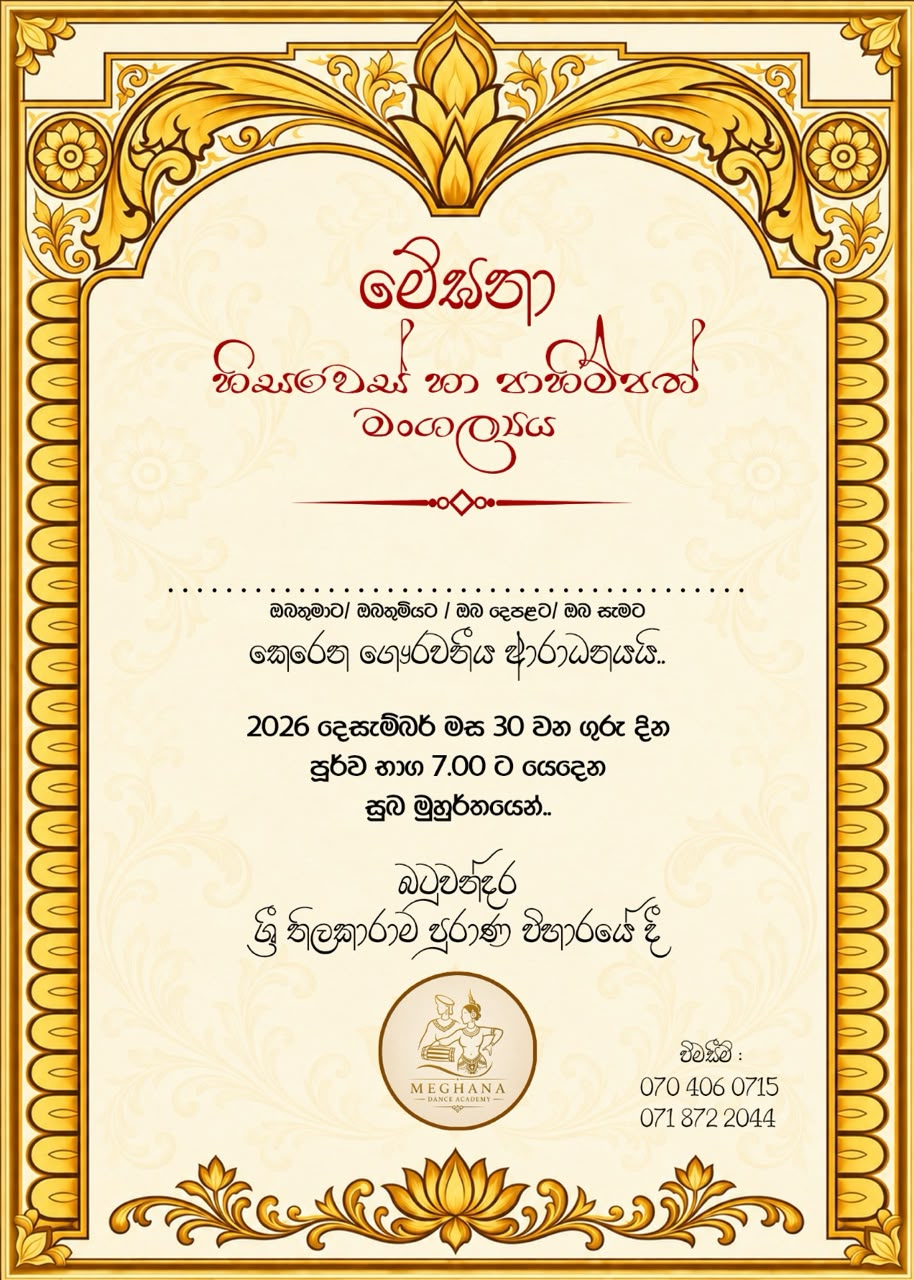
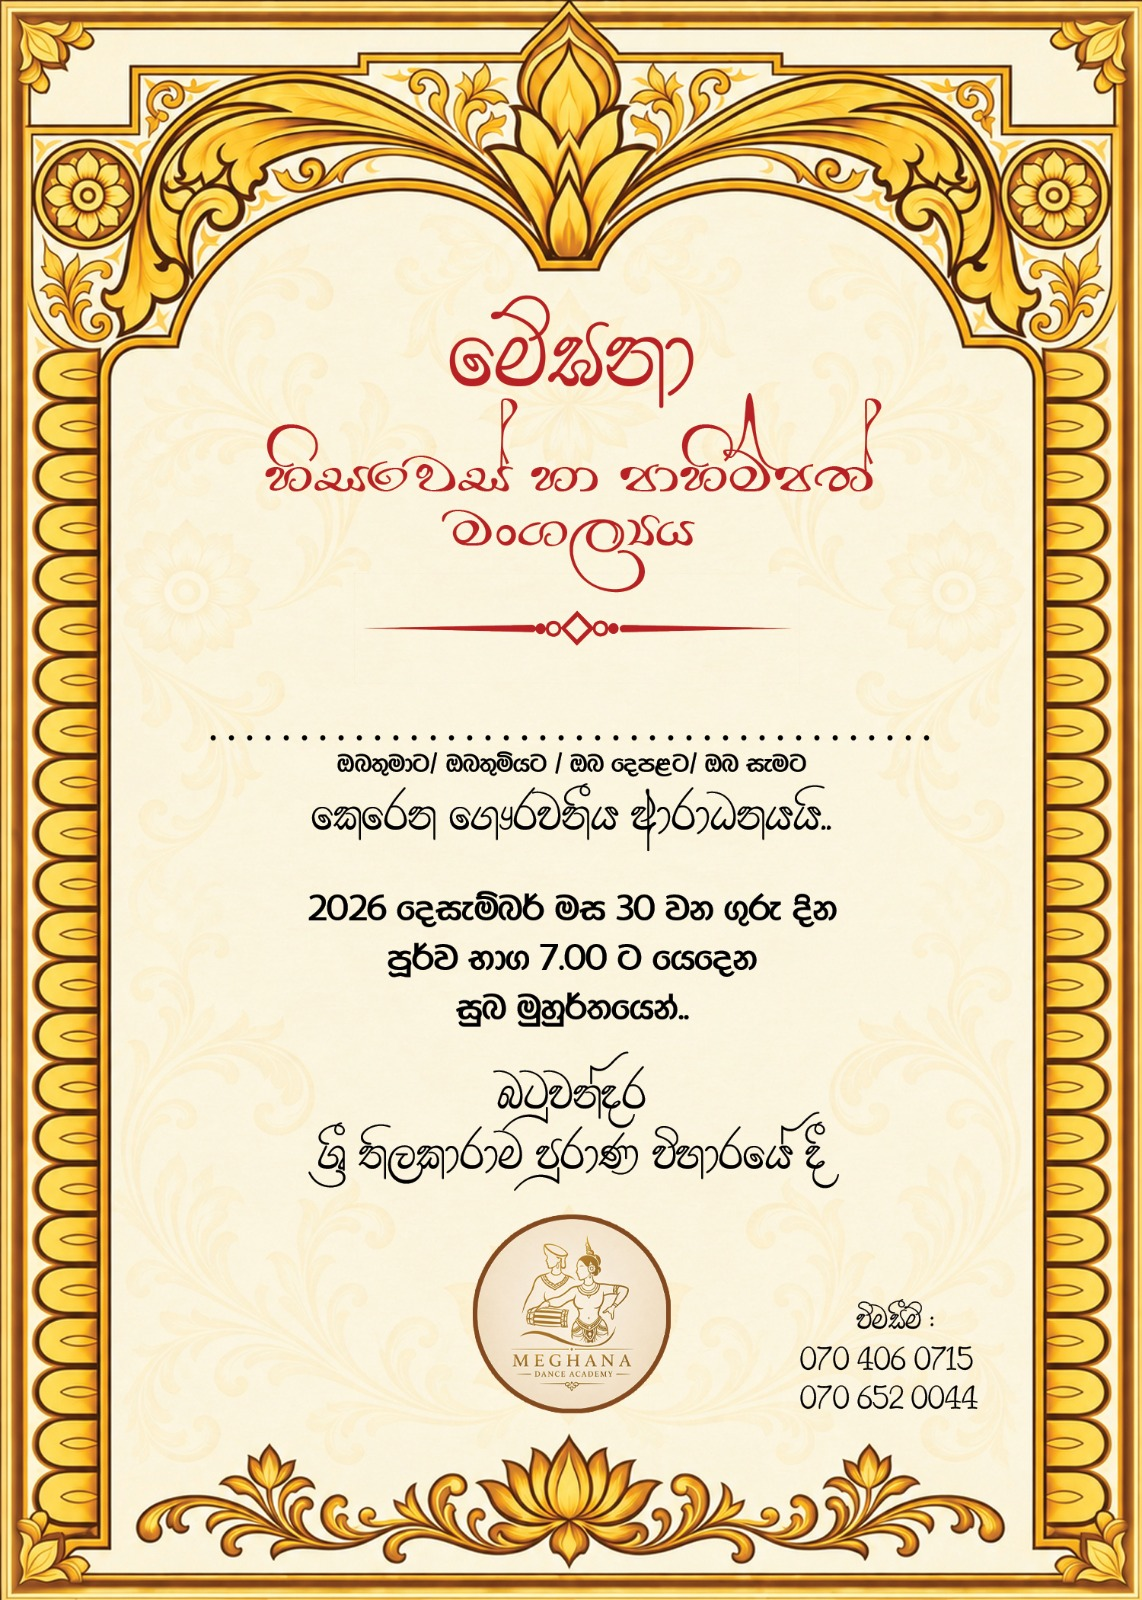
Update invitation details and improve Sinhala translations for clarity

diff --git a/ves-mangalya-invitation/components/OnePageSections.js b/ves-mangalya-invitation/components/OnePageSections.js
@@ -14,7 +14,7 @@ const STUDENTS = [
   { name: 'දුලීෂී නිම්තරා',photo: '/student8.jpeg' }
 ];
 const AGENDA = [
-  { time: 'පෙ.ව.5.00', title: 'හිස වෙස් හා පාහිම්පත් පැළදවීම'},
+  { time: 'පෙ.ව.5.00', title: 'හිසවෙස් හා පාහිම්පත් පැළදවීම'},
   { time: 'පෙ.ව.6.45', title: 'රංග භූමියට ප්රවිශ්ට වීම හා මගුල් බෙර වාදනය'},
   { time: 'පෙ.ව.7.00', title: 'යාතිකාව'},
   { time: 'පෙ.ව.7.30', title: 'ඡායාරූප ගැනීම'},
@@ -30,25 +30,24 @@ const AGENDA = [
   { title: 'තේ පැන් සංග්රහය'}
 ];
 const PHOTOS = [
-  '/gallery1.jpg',
-  '/gallery2.jpg',
-  '/gallery3.jpg',
-  '/gallery4.jpg',
-  '/gallery5.jpg',
   '/gallery6.jpg',
-  '/gallery7.jpg',
+  '/gallery1.jpg',
   '/gallery8.jpg',
-  '/gallery9.jpg',
+  '/gallery3.jpg',
   '/gallery10.jpg',
+  '/gallery5.jpg',  
+  '/gallery7.jpg',  
+  '/gallery9.jpg',  
   '/gallery11.jpg',
   '/gallery12.jpg',
-  '/gallery13.jpg'
+  '/gallery13.jpg',
+  '/gallery2.jpg'
 ];
 const MAPS_QUERY = 'Sri Thilakarama Viharaya, Madapatha Rd, Piliyandala';
 const VENUE_NAME = MAPS_QUERY;
 const CONTACTS = [
-  { name: '[හරේන්ද්ර චාමර බටු ගුරුතුමා]', role: 'නර්තන ගුරුවරයා', phone: '070 406 0715'},
-  { name: '[රශ්මි තරූෂා ගුරුතුමිය]', role: 'නර්තන ගුරුවරයා', phone: '077 872 2044'},
+  { name: '[හරීන්ද්ර චාමර ගුරුතුමා]', role: 'නර්තන ගුරුවරයා', phone: '070 406 0715'},
+  { name: '[රශ්මි තරූෂා ගුරුතුමිය]', role: 'නර්තන ගුරුවරයා', phone: '071 872 0044'},
 ];
 
 function getTimeLeft() {

diff --git a/ves-mangalya-invitation/pages/invitation.js b/ves-mangalya-invitation/pages/invitation.js
@@ -9,7 +9,7 @@ export default function Home() {
     <Layout title="මුල් පිටුව">
       <section id="home" className="scroll-section hero-section">
         <span className="eyebrow">ආරාධනා පත්රය</span>
-        <h1 className="title hero-title">වෙස් තැබීමේ උත්සවය</h1>
+        <h1 className="title hero-title">හිසවෙස් හා පාහිම්පත් පැළදවීමේ මංගල්ය</h1>
 
         <div className="hero-photo-wrap frame-photo">
           <Image
@@ -24,12 +24,11 @@ export default function Home() {
 
         <div className="hero-caption">
           <p>
-            සහෝදර සහෝදරියන්ට ගෞරවයෙන් ආරාධනා කර සිටිමු,
-            වෙස් තැබීමේ ඓතිහාසික උත්සවයට සහභාගී වී ආශිර්වාද එක් කරන්න.
+            ඔබ සැමගේ ගෞරවනීය සහභාගීත්වය අපේක්ෂා කරමු.
           </p>
           <div className="hero-nekath">
             නැකත් වේලාව
-            <b>සවස 7.00</b>
+            <b>උදෑසන 7.00</b>
           </div>
         </div>
 
